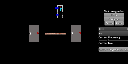
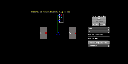
helper added. drag and drop helper on any component to get some help. It is more like a tooltip.

Changed region(s): [[0.6875, 0.1562, 1.0, 0.8125], [0.2188, 0.0625, 0.6562, 0.6562]]

diff --git a/ScienceEngine/src/com/mazalearn/scienceengine/core/view/Helper.java b/ScienceEngine/src/com/mazalearn/scienceengine/core/view/Helper.java
@@ -1,0 +1,98 @@
+package com.mazalearn.scienceengine.core.view;
+
+import com.badlogic.gdx.Gdx;
+import com.badlogic.gdx.graphics.Color;
+import com.badlogic.gdx.graphics.Texture;
+import com.badlogic.gdx.math.Vector2;
+import com.badlogic.gdx.math.Vector3;
+import com.badlogic.gdx.scenes.scene2d.Action;
+import com.badlogic.gdx.scenes.scene2d.Actor;
+import com.badlogic.gdx.scenes.scene2d.Group;
+import com.badlogic.gdx.scenes.scene2d.InputEvent;
+import com.badlogic.gdx.scenes.scene2d.actions.Actions;
+import com.badlogic.gdx.scenes.scene2d.ui.Image;
+import com.badlogic.gdx.scenes.scene2d.ui.Skin;
+import com.badlogic.gdx.scenes.scene2d.ui.TextButton;
+import com.badlogic.gdx.scenes.scene2d.utils.ClickListener;
+
+public class Helper extends Group {
+  private TextButton helpBox;
+  private float originalX;
+  private float originalY;
+  private Vector2 lastTouch = new Vector2();
+  private Vector3 currentTouch = new Vector3();
+  private Image helpIcon;
+
+  public Helper(Skin skin, float x, float y) {
+    super();
+    this.setPosition(0, 0);
+    this.setName("Help");
+    this.helpIcon = new Image(new Texture("images/help.png"));
+    helpIcon.setSize(48, 48);
+    helpIcon.setPosition(x, y);
+    this.helpBox = new TextButton("Really long Helptext", skin);
+    helpBox.setColor(Color.YELLOW);
+    helpBox.setVisible(false);
+    //helpBox.getLabel().setWrap(true);
+    helpBox.addListener(new ClickListener() {
+      public void clicked (InputEvent event, float x, float y) {
+        helpBox.setVisible(false);
+      }
+    });
+    this.addActor(helpIcon);
+    this.addActor(helpBox);
+    helpIcon.addListener(new ClickListener() {
+      @Override
+      public boolean touchDown(InputEvent event, float localX, float localY, int pointer, int button) {
+        currentTouch.set(Gdx.input.getX(), Gdx.input.getY(), 0);
+        getStage().getCamera().unproject(currentTouch);
+        lastTouch.set(currentTouch.x, currentTouch.y);
+        originalX = helpIcon.getX();
+        originalY = helpIcon.getY();
+        return true;
+      }
+
+      @Override
+      public void touchDragged(InputEvent event, float localX, float localY, int pointer) {
+        // Screen coords of current touch
+        currentTouch.set(Gdx.input.getX(), Gdx.input.getY(), 0);
+        // Stage coords of current touch
+        getStage().getCamera().unproject(currentTouch);
+        // Get negative of movement vector
+        lastTouch.sub(currentTouch.x, currentTouch.y);
+        helpIcon.setPosition(helpIcon.getX() - lastTouch.x, helpIcon.getY() - lastTouch.y);
+        // Recalibrate lastTouch to new coordinates
+        lastTouch.set(currentTouch.x, currentTouch.y);
+      }
+
+      @Override
+      public void touchUp(InputEvent event, float localX, float localY, int pointer, int button) {
+        // Screen coords of current touch
+        currentTouch.set(Gdx.input.getX(), Gdx.input.getY(), 0);
+        // Stage coords of current touch
+        getStage().getCamera().unproject(currentTouch);
+        helpIcon.setPosition(originalX, originalY);
+        Actor actor = getStage().getRoot().hit(currentTouch.x, currentTouch.y, true);
+        while (actor != null && actor.getName() == null) {
+          actor = actor.getParent();
+        }
+        if (actor != null && actor.getName() != null) {
+          helpBox.setVisible(true);
+          helpBox.setText(actor.getName());
+          helpBox.invalidate();
+          // Translate to group coordinates
+          stageToLocalCoordinates(lastTouch.set(currentTouch.x, currentTouch.y));
+          helpBox.setPosition(lastTouch.x - helpBox.getWidth()/2, 
+              lastTouch.y - helpBox.getHeight()/2);
+          helpBox.addAction(Actions.sequence(Actions.delay(2f), new Action() {
+            @Override
+            public boolean act(float delta) {
+              helpBox.setVisible(false);
+              return true;
+            }
+          }));
+        }
+      }
+    });
+ }
+}

diff --git a/ScienceEngine/src/com/mazalearn/scienceengine/core/view/AbstractScience2DStage.java b/ScienceEngine/src/com/mazalearn/scienceengine/core/view/AbstractScience2DStage.java
@@ -130,12 +130,17 @@ public abstract class AbstractScience2DStage extends Stage implements IScience2D
 
   public void setControlPanel(ControlPanel controlPanel) {
     this.controlPanel = controlPanel;
+    // Register control panel
     this.addActor(controlPanel);
+    // Register title
     Label title = new Label("", skin);
     title.setPosition(10, getHeight() - 20);
     title.setName("Title");
     title.setColor(Color.YELLOW);
     this.addActor(title);
+    // Register help
+    Actor help = new Helper(skin, 650, getHeight()  - 90);
+    this.addActor(help);
     this.levelManager = new LevelManager(this, science2DModel, controlPanel);
   }
 }

diff --git a/ScienceEngine/src/com/mazalearn/scienceengine/app/services/LevelLoader.java b/ScienceEngine/src/com/mazalearn/scienceengine/app/services/LevelLoader.java
@@ -122,7 +122,8 @@ public class LevelLoader {
   private void initializeComponents() {
     // Make all actors inactive and invisible.
     for (Actor actor: science2DStage.getActors()) {
-      if (!"Title".equals(actor.getName()) && !"CircuitElement".equals(actor.getName())) {
+      if (!"Title".equals(actor.getName()) && !"CircuitElement".equals(actor.getName()) &&
+          !"Help".equals(actor.getName())) {
         actor.setVisible(false);
       }
       if (actor instanceof Science2DActor) {

diff --git a/ScienceEngine/src/com/mazalearn/scienceengine/core/view/Science2DActor.java b/ScienceEngine/src/com/mazalearn/scienceengine/core/view/Science2DActor.java
@@ -65,7 +65,7 @@ public class Science2DActor extends Actor {
         // Screen coords of current touch
         getStage().getCamera().unproject(currentTouch);
         // Get negative of movement vector
-       lastTouch.sub(currentTouch.x, currentTouch.y);
+        lastTouch.sub(currentTouch.x, currentTouch.y);
         Science2DActor.this.setPosition(getX() - lastTouch.x, getY() - lastTouch.y);
         setPositionFromViewCoords(true);
         // Recalibrate lastTouch to new coordinates

diff --git a/ScienceEngine/src/com/mazalearn/scienceengine/core/probe/ProbeManager.java b/ScienceEngine/src/com/mazalearn/scienceengine/core/probe/ProbeManager.java
@@ -52,8 +52,9 @@ public class ProbeManager extends Group implements IDoneCallback {
     this.addActor(successImage);
     this.addActor(failureImage);
     probeHinter = new ProbeHinter(skin);
+    // Place hinter to right of question mark above the controls.
     probeHinter.setPosition(controlPanel.getX(),
-        controlPanel.getY() + controlPanel.getPrefHeight() / 2 + 35);
+        controlPanel.getY() + controlPanel.getPrefHeight() / 2 + 20);
     this.addActor(probeHinter);
   }
 

diff --git a/ScienceEngine/src/com/mazalearn/scienceengine/core/controller/CommandButtonControl.java b/ScienceEngine/src/com/mazalearn/scienceengine/core/controller/CommandButtonControl.java
@@ -20,6 +20,7 @@ public class CommandButtonControl implements IControl {
   public CommandButtonControl(final IModelConfig command, final Skin skin) {
     this.textButton = new TextButton(command.getName(), skin);
     this.command = command;
+    textButton.setName(command.getDescription());
     textButton.addListener(new ClickListener() {
       @Override
       public void clicked(InputEvent event, float x, float y) {

diff --git a/ScienceEngine/src/com/mazalearn/scienceengine/core/controller/OnOffButtonControl.java b/ScienceEngine/src/com/mazalearn/scienceengine/core/controller/OnOffButtonControl.java
@@ -20,6 +20,7 @@ public class OnOffButtonControl implements IControl {
     this.toggleButton = new TextButton(property.getName(), 
         skin.get("toggle", TextButtonStyle.class));
     this.property = property;
+    toggleButton.setName(property.getDescription()); 
     toggleButton.addListener(new ClickListener() {
       @Override
       public void clicked(InputEvent event, float x, float y) {

diff --git a/ScienceEngine/src/com/mazalearn/scienceengine/core/controller/SelectBoxControl.java b/ScienceEngine/src/com/mazalearn/scienceengine/core/controller/SelectBoxControl.java
@@ -13,6 +13,7 @@ public class SelectBoxControl implements IControl {
     this.selectBox = new SelectBox (getItems(property), skin);
     this.property = property;
     syncWithModel();
+    selectBox.setName(property.getDescription());
     // Set value when slider changes
     selectBox.addListener(new ChangeListener() {
       @Override

diff --git a/ScienceEngine/src/com/mazalearn/scienceengine/core/controller/SliderControl.java b/ScienceEngine/src/com/mazalearn/scienceengine/core/controller/SliderControl.java
@@ -18,6 +18,7 @@ public class SliderControl implements IControl {
         (property.getHigh() - property.getLow())/10, false, skin);
     this.property = property;
     syncWithModel();
+    slider.setName(property.getDescription());
     // Set value when slider changes
     slider.addListener(new ChangeListener() {
       @Override
